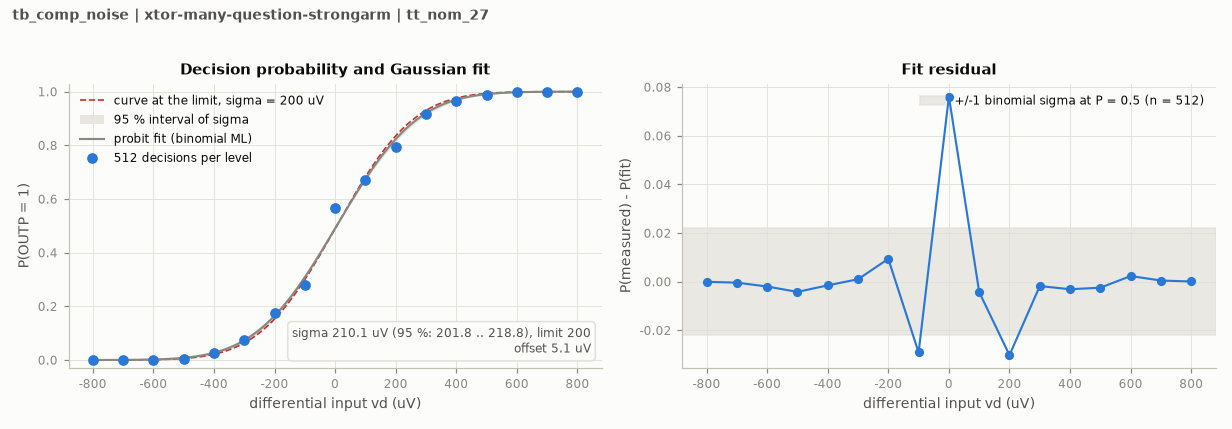
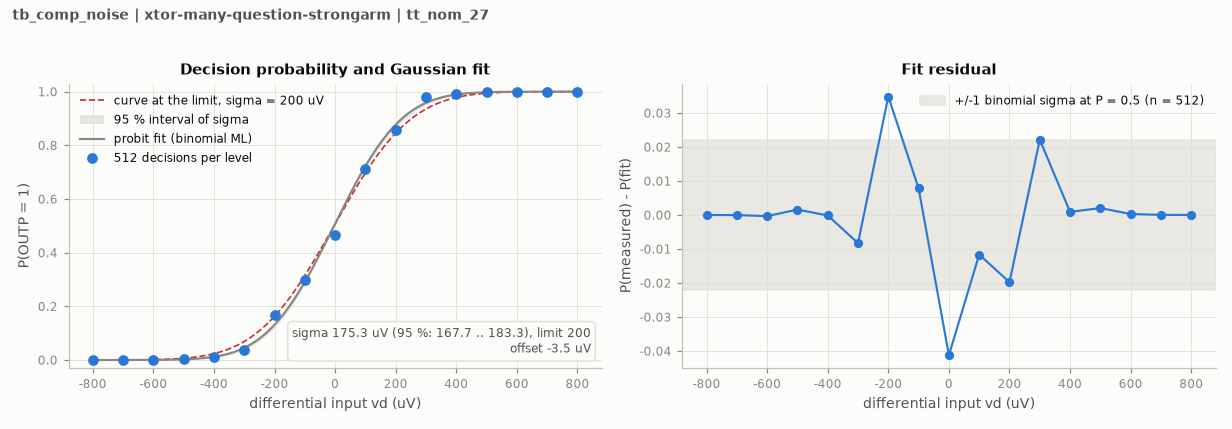
test(comp): record formal l16 TT noise pass

diff --git a/design/xtor/adc_comp/many-question-strongarm/RESTORATION-20261103.md b/design/xtor/adc_comp/many-question-strongarm/RESTORATION-20261103.md
@@ -8,7 +8,7 @@ The current candidate is restored to the frozen l16t3c1 electrical baseline. Sta
[1 lines of base64/hex data omitted]
 - Historical full FS noise is 274.20498833482293 uV, with model-conditional 95% interval 264.5703918658524–284.28656376278826 uV. The interval crosses the new 280 uV limit. Historical TT 144.572627 uV is an old-numerics 17 x 64 pilot, not formal TT qualification.
[3 lines of base64/hex data omitted]
 
 ## Required sequence
 
@@ -17,4 +17,14 @@ The current candidate is restored to the frozen l16t3c1 electrical baseline. Sta
 3. A promising baseline must pass short reset support tests (TT about 43 ps, fast 38 ps, slow 69 ps) and official device SOA. The old 200 ps low phase is insufficient evidence.
 4. Expand full corners, mismatch, kickback and mixed-top only after the first round supports proceeding. New SOA must cover every required corner before eligibility; lead verification remains required.
 
-New simulations are pending at this source-freeze checkpoint. No old result is rehashed or declared fresh. A6 and PR #123 remain historical alternatives with no new sizing work.
+At the source-freeze checkpoint new simulations were pending. The first formal result is recorded below. No old result is rehashed or declared fresh. A6 and PR #123 remain historical alternatives with no new sizing work.
+
+## Formal l16 TT noise: pass
+
[1 lines of base64/hex data omitted]
+
+The official current test returns **175.29518977435197 uV rms**, 95% profile interval **167.73–183.26 uV**, offset -0.003520208546265018 mV. CMP-01, CMP-13 and CMP-02 pass at TT. All 8,704 decision rows are finite, exactly 512 at each of 17 levels. Actual log settings: APS, conservative, gear2only, reltol 1e-4, voltage abstol 1e-6 V, 50 GHz physical noise and seed 1; no numerical overrides. The 1,825,119 accepted steps average 1.90766 ps. Simulator return code is 0; simulator time 388 s, official wrapper 474.7 s.
+
[1 lines of base64/hex data omitted]
+
+Validation at this checkpoint: `adcflow check all` passes (96 existing stale/failing historical warnings); 507 non-slow tests pass, 1 deselected. Required CI contracts/drawings/results and slow budget jobs pass. Short-reset and official SOA are the next gates; one TT pass does not establish readiness or all-corner qualification.

diff --git a/design/xtor/adc_comp/many-question-strongarm/README.md b/design/xtor/adc_comp/many-question-strongarm/README.md
@@ -1,6 +1,6 @@
 # Strongarm comparator: restored l16t3c1 (WIP)
 
-The current electrical baseline is l16t3c1, restored on 2026-11-03 for requalification under comparator 0.11.0. See [the source mapping and validation sequence](RESTORATION-20261103.md). The RESET-V27 narrative and figure below are historical; their results are not fresh l16 evidence.
+The current electrical baseline is l16t3c1, restored on 2026-11-03 for requalification under comparator 0.11.0. Formal current-settings TT 17 x 512 physical noise passes at 175.29518977435197 uV rms (95% interval 167.73–183.26 uV); short-reset and official SOA remain pending. See [the source mapping and validation sequence](RESTORATION-20261103.md). The RESET-V27 narrative and figure below are historical; their results are not fresh l16 evidence.
 
 ## Historical RESET-V27 and subsequent experiments
 
